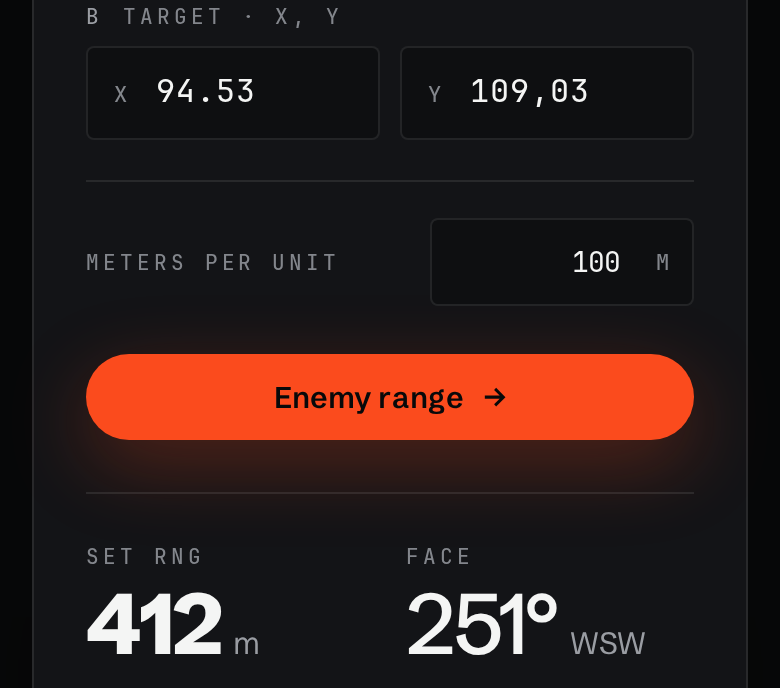
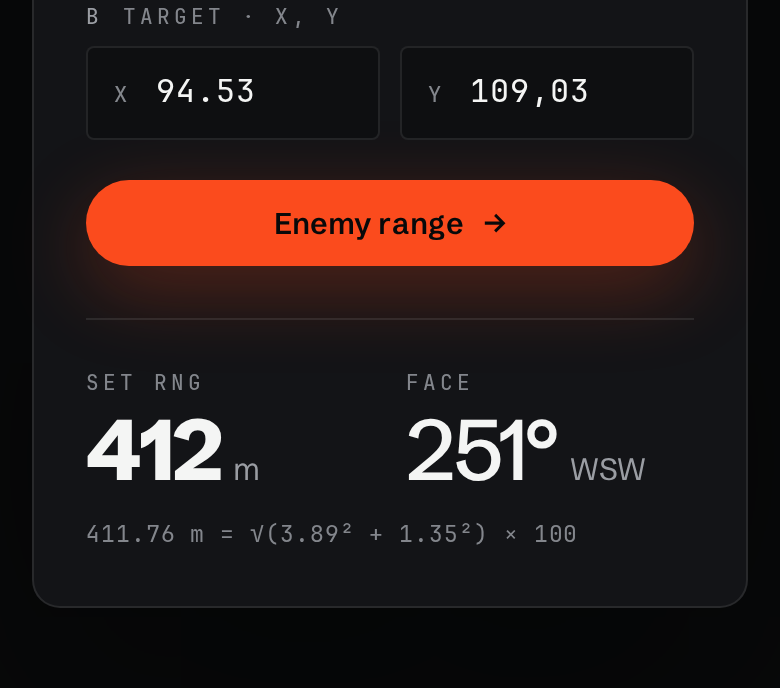
Remove meters-per-unit box; always 100 m per map unit
Claude-Session: https://claude.ai/code/session_01EgT5FX5KAE4dFoWsGCwVm8

diff --git a/index.html b/index.html
@@ -77,13 +77,8 @@ input:focus, input[aria-invalid="true"] { border-color: var(--jd-accent); }
   .pair { display: grid; grid-template-columns: 1fr 1fr; gap: 10px; }
 }
 
-.scale { display: flex; align-items: center; justify-content: space-between; gap: 16px; padding-top: 18px; margin: 4px 0 24px; border-top: 1px solid var(--jd-line); }
-.scale .lbl { margin: 0; }
-.scale .wrap { width: 132px; }
-.scale input { text-align: right; padding-right: 36px; font-family: var(--jd-mono); font-size: 14px; }
-.scale .unit { position: absolute; right: 12px; top: 50%; transform: translateY(-50%); font: 500 11px var(--jd-mono); color: var(--jd-muted-2); pointer-events: none; }
 
-.go { width: 100%; display: flex; justify-content: center; align-items: center; gap: 10px; padding: 14px 20px; border: 0; border-radius: 999px; background: var(--jd-accent); color: var(--jd-on-accent); font: 600 15px/1 var(--jd-sans); cursor: pointer; box-shadow: var(--jd-shadow-accent); transition: transform .35s var(--jd-ease), background .2s, box-shadow .2s; }
+.go { margin-top: 8px; width: 100%; display: flex; justify-content: center; align-items: center; gap: 10px; padding: 14px 20px; border: 0; border-radius: 999px; background: var(--jd-accent); color: var(--jd-on-accent); font: 600 15px/1 var(--jd-sans); cursor: pointer; box-shadow: var(--jd-shadow-accent); transition: transform .35s var(--jd-ease), background .2s, box-shadow .2s; }
 .go:hover { transform: translateY(-2px); box-shadow: 0 16px 48px color-mix(in srgb, var(--jd-accent) 40%, transparent); }
 .go:active { transform: translateY(-2px); background: var(--jd-accent-press); }
 .go:focus-visible { outline: 2px solid var(--jd-fg); outline-offset: 3px; }
@@ -145,7 +140,7 @@ footer { margin-top: 56px; padding-top: 14px; border-top: 1px solid var(--jd-lin
[1 lines of base64/hex data omitted]
   <p class="eyebrow in">01 · Wardogs range calculator</p>
   <h1 class="in">Range from your position to the target</h1>
-  <p class="lede in">Paste your map position and the target&#39;s, and this gives you the RNG and Face numbers to set on the mortar or artillery sight.</p>
+  <p class="lede in">Enter your map position and the target&#39;s, and this gives you the RNG and Face numbers to set on the mortar or artillery sight.</p>
   </div>
 
   <div class="card in">
@@ -165,10 +160,6 @@ footer { margin-top: 56px; padding-top: 14px; border-top: 1px solid var(--jd-lin
       <label class="lbl" for="b"><span class="n">B</span> Target · x, y</label>
       <div class="wrap"><input id="b" value="x94.53, y109.03" placeholder="x94.53, y109.03" autocomplete="off" spellcheck="false"><button class="x" type="button" aria-label="Clear the target position">×</button></div>
       <div class="pair"><div class="cell"><span class="axis">X</span><input id="bx" value="94.53" inputmode="decimal" enterkeyhint="next" autocomplete="off" aria-label="Target X"></div><div class="cell"><span class="axis">Y</span><input id="by" value="109.03" inputmode="decimal" enterkeyhint="go" autocomplete="off" aria-label="Target Y"></div></div>
-    </div>
-    <div class="scale">
-      <label class="lbl" for="scale">Meters per unit</label>
-      <div class="wrap"><input id="scale" value="100" inputmode="decimal" autocomplete="off"><span class="unit">M</span></div>
     </div>
     <button class="go" id="go" type="button">Enemy range <span aria-hidden="true">→</span></button>
     <div id="result" aria-live="polite"></div>
@@ -299,7 +290,9 @@ function formatMeters(meters) {
 <script>
 const round = (n) => Number(n.toFixed(4)).toString();
 const $ = (id) => document.getElementById(id);
-const inputs = ["a", "b", "scale"].map($);
+const inputs = ["a", "b"].map($);
+// Wardogs map coordinates are in hundreds of meters.
+const METERS_PER_UNIT = 100;
 const pairInputs = ["ax", "ay", "bx", "by"].map($);
 const phone = window.matchMedia("(max-width: 640px)");
 
@@ -332,7 +325,7 @@ pairInputs.forEach((el, i) =>
 );
 
 function show() {
-  const r = calculate(readPoint("a"), readPoint("b"), $("scale").value, weapon);
+  const r = calculate(readPoint("a"), readPoint("b"), METERS_PER_UNIT, weapon);
   const out = $("result");
   inputs.concat(pairInputs).forEach((el) => { el.removeAttribute("aria-invalid"); el.removeAttribute("aria-describedby"); });
   out.classList.remove("show");

diff --git a/AGENT_LOG.md b/AGENT_LOG.md
@@ -61,3 +61,6 @@ Compare it with DEVLOG.md: where the two logs disagree is where you learn the mo
 - Did: Under 640 px wide, each point shows two boxes (X, Y) with the number keypad instead of one paste box. Enter jumps box to box and calculates at the end. Comma decimals accepted (joinPoint, tested). Phone and PC boxes stay in sync. Phone errors say "needs a number in both X and Y" and flag only the empty box. Step 01 mentions the phone boxes. PC unchanged.
 - Decided and why: Phone boxes use 16 px text so iPhones don't zoom in when you tap them.
 - Unsure about: The iPhone number keypad has no minus key, so negative coordinates can't be typed on iPhone. Wardogs coordinates seen so far are all positive.
+
+## 2026-10-05: Removed the meters-per-unit box
+- Did: Removed the box; the page always uses 100 m per map unit (confirmed by guides). calculate() keeps its scale input so existing tests still cover the maths. Intro now says "Enter" instead of "Paste" so it fits phones.
